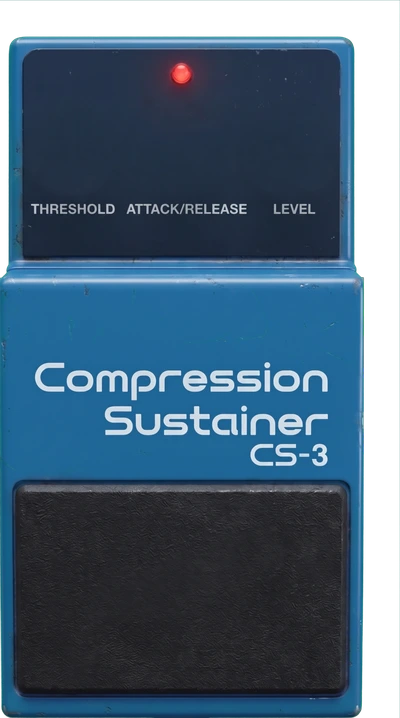
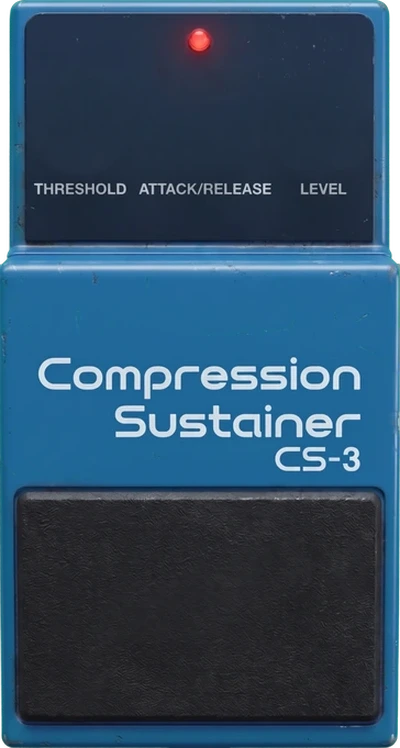
Pedals: re-centre knobs and readouts, crop CS-3/Big Muff photo margins; AC/DC preset without reverb
Claude-Session: https://claude.ai/code/session_01CWvZQgQQYmGZwEkUDMEGhG

diff --git a/style.css b/style.css
@@ -1703,9 +1703,9 @@ input[type="range"]:focus-visible { outline: 2px solid var(--brass); outline-off
   --led-x: 50.5%; --led-y: 4.7%; --led-d: 11px;
   --grip-y: 42%; --plate-y: 41.5%;
 }
-.photo-skin[data-pedal-type="ds1"] .knob-row:nth-child(1) { --kx: 145.0px; --ky: 45.3px; --kd: 47.3px; --col: 76%; }
-.photo-skin[data-pedal-type="ds1"] .knob-row:nth-child(2) { --kx: 50.0px; --ky: 45.3px; --kd: 48.3px; --col: 24%; }
-.photo-skin[data-pedal-type="ds1"] .knob-row:nth-child(3) { --kx: 101.1px; --ky: 82.7px; --kd: 32.2px; --col: 50%; }
+.photo-skin[data-pedal-type="ds1"] .knob-row:nth-child(1) { --kx: 145.0px; --ky: 45.3px; --kd: 47.3px; --col: 72.5%; }
+.photo-skin[data-pedal-type="ds1"] .knob-row:nth-child(2) { --kx: 50.0px; --ky: 45.3px; --kd: 48.3px; --col: 25.0%; }
+.photo-skin[data-pedal-type="ds1"] .knob-row:nth-child(3) { --kx: 101.1px; --ky: 82.7px; --kd: 32.2px; --col: 50.5%; }
 .photo-skin[data-pedal-type="ds1"] .knob-row > label { left: var(--col); top: 30.5%; }
 .photo-skin[data-pedal-type="ds1"] .knob-row > input[type="range"] { left: calc(var(--col) - 10%); top: calc(30.5% + 24px); width: 20%; }
 .photo-skin[data-pedal-type="ds1"] .knob-row .knob-value { color: oklch(15% 0.02 50); border-bottom-color: oklch(15% 0.02 50 / 0.5); }
@@ -1718,10 +1718,10 @@ input[type="range"]:focus-visible { outline: 2px solid var(--brass); outline-off
 .photo-skin[data-pedal-type="ts9"] .knob-row:nth-child(3) { --kx: 158.1px; --ky: 51.2px; --kd: 47.3px; --col: 78.7%; --vy: 28.6%; --sy: 33.6%; --sw: 23.5%; }
 /* delay: generated by pipe.py (img/delay.webp, 400x750) */
 .photo-skin[data-pedal-type="delay"] { --fs-x: 5.0%; --fs-y: 64.0%; --fs-w: 90.0%; --fs-h: 33.0%; --fs-r: 6px; --led-x: 50.0%; --led-y: 3.5%; --led-d: 14px; --grip-y: 28.7%; --plate-y: 28.7%; }
-.photo-skin[data-pedal-type="delay"] .knob-row:nth-child(1) { --kx: 32.6px; --ky: 41.5px; --kd: 35px; --col: 17.8%; --vy: 22.5%; --sy: 25.8%; --sw: 17.6%; }
-.photo-skin[data-pedal-type="delay"] .knob-row:nth-child(2) { --kx: 77.4px; --ky: 41.5px; --kd: 35px; --col: 39.2%; --vy: 22.5%; --sy: 25.8%; --sw: 17.6%; }
-.photo-skin[data-pedal-type="delay"] .knob-row:nth-child(3) { --kx: 122.3px; --ky: 41.5px; --kd: 35px; --col: 60.7%; --vy: 22.5%; --sy: 25.8%; --sw: 17.6%; }
-.photo-skin[data-pedal-type="delay"] .knob-row:nth-child(4) { --kx: 166.6px; --ky: 41.5px; --kd: 35px; --col: 82.2%; --vy: 22.5%; --sy: 25.8%; --sw: 17.6%; }
+.photo-skin[data-pedal-type="delay"] .knob-row:nth-child(1) { --kx: 34.5px; --ky: 41.5px; --kd: 35px; --col: 17.2%; --vy: 22.5%; --sy: 25.8%; --sw: 17.6%; }
+.photo-skin[data-pedal-type="delay"] .knob-row:nth-child(2) { --kx: 78.0px; --ky: 41.5px; --kd: 35px; --col: 39.2%; --vy: 22.5%; --sy: 25.8%; --sw: 17.6%; }
+.photo-skin[data-pedal-type="delay"] .knob-row:nth-child(3) { --kx: 121.5px; --ky: 41.5px; --kd: 35px; --col: 60.7%; --vy: 22.5%; --sy: 25.8%; --sw: 17.6%; }
+.photo-skin[data-pedal-type="delay"] .knob-row:nth-child(4) { --kx: 165.0px; --ky: 41.5px; --kd: 35px; --col: 82.2%; --vy: 22.5%; --sy: 25.8%; --sw: 17.6%; }
 /* compressor: generated by pipe.py (img/compressor.webp, 400x723) */
 .photo-skin[data-pedal-type="compressor"] { --fs-x: calc(50.0% - 26px); --fs-y: calc(87.0% - 26px); --fs-w: 52px; --fs-h: 52px; --led-x: 80.0%; --led-y: 87.0%; --led-d: 14px; }
 .photo-skin[data-pedal-type="compressor"] .knob-row:nth-child(1) { --kx: 42.6px; --ky: 52.4px; --kd: 47.2px; --col: 21.3%; --vy: 28.6%; --sy: 33.6%; --sw: 23.5%; }
@@ -1731,9 +1731,9 @@ input[type="range"]:focus-visible { outline: 2px solid var(--brass); outline-off
 .photo-skin[data-pedal-type="compressor"] .knob-row:nth-child(5) { --kx: 142.6px; --ky: 168.7px; --kd: 48.4px; --col: 71.5%; --vy: 61.4%; --sy: 66.6%; --sw: 29.9%; }
 /* bigmuff: generated by pipe.py (img/bigmuff.webp, 400x658) */
 .photo-skin[data-pedal-type="bigmuff"] { --fs-x: calc(50.0% - 26px); --fs-y: calc(87.0% - 26px); --fs-w: 52px; --fs-h: 52px; --led-x: 78.0%; --led-y: 74.0%; --led-d: 14px; }
-.photo-skin[data-pedal-type="bigmuff"] .knob-row:nth-child(1) { --kx: 36.8px; --ky: 47.6px; --kd: 40.9px; --col: 21.3%; --vy: 34.5%; --sy: 40%; --sw: 23.5%; }
-.photo-skin[data-pedal-type="bigmuff"] .knob-row:nth-child(2) { --kx: 98.8px; --ky: 47.6px; --kd: 40.8px; --col: 50.0%; --vy: 34.5%; --sy: 40%; --sw: 23.5%; }
-.photo-skin[data-pedal-type="bigmuff"] .knob-row:nth-child(3) { --kx: 162.2px; --ky: 47.6px; --kd: 40.9px; --col: 78.7%; --vy: 34.5%; --sy: 40%; --sw: 23.5%; }
+.photo-skin[data-pedal-type="bigmuff"] .knob-row:nth-child(1) { --kx: 36.8px; --ky: 47.6px; --kd: 40.9px; --col: 18.4%; --vy: 34.5%; --sy: 40%; --sw: 23.5%; }
+.photo-skin[data-pedal-type="bigmuff"] .knob-row:nth-child(2) { --kx: 98.8px; --ky: 47.6px; --kd: 40.8px; --col: 49.4%; --vy: 34.5%; --sy: 40%; --sw: 23.5%; }
+.photo-skin[data-pedal-type="bigmuff"] .knob-row:nth-child(3) { --kx: 162.2px; --ky: 47.6px; --kd: 40.9px; --col: 81.1%; --vy: 34.5%; --sy: 40%; --sw: 23.5%; }
 /* crybaby: generated by pipe.py (img/crybaby.webp, 400x1037) */
 .photo-skin[data-pedal-type="crybaby"] { --fs-x: 8.0%; --fs-y: 5.0%; --fs-w: 84.0%; --fs-h: 62.0%; --fs-r: 6px; --led-x: 82.7%; --led-y: 72.3%; --led-d: 14px; }
 .photo-skin[data-pedal-type="crybaby"] .knob-row:nth-child(1) { --col: 28.5%; --vy: 81.0%; --sy: 89.0%; --sw: 18.0%; }
@@ -1744,15 +1744,15 @@ input[type="range"]:focus-visible { outline: 2px solid var(--brass); outline-off
 .photo-skin[data-pedal-type="crybaby"] .knob-row:nth-child(2) > label { font-size: 10px; color: #fff; text-shadow: 0 1px 2px #000; }
 /* chorus: generated by pipe.py (img/chorus.webp, 400x841) */
 .photo-skin[data-pedal-type="chorus"] { --fs-x: 5.0%; --fs-y: 64.0%; --fs-w: 90.0%; --fs-h: 33.0%; --fs-r: 6px; --led-x: 50.0%; --led-y: 3.5%; --led-d: 14px; --grip-y: 28.7%; --plate-y: 28.7%; }
-.photo-skin[data-pedal-type="chorus"] .knob-row:nth-child(1) { --kx: 33.8px; --ky: 39.6px; --kd: 35px; --col: 17.8%; --vy: 22.5%; --sy: 25.8%; --sw: 17.6%; }
-.photo-skin[data-pedal-type="chorus"] .knob-row:nth-child(2) { --kx: 78.1px; --ky: 39.6px; --kd: 35px; --col: 39.2%; --vy: 22.5%; --sy: 25.8%; --sw: 17.6%; }
-.photo-skin[data-pedal-type="chorus"] .knob-row:nth-child(3) { --kx: 121.2px; --ky: 39.6px; --kd: 35px; --col: 60.7%; --vy: 22.5%; --sy: 25.8%; --sw: 17.6%; }
-.photo-skin[data-pedal-type="chorus"] .knob-row:nth-child(4) { --kx: 165.2px; --ky: 39.6px; --kd: 35px; --col: 82.2%; --vy: 22.5%; --sy: 25.8%; --sw: 17.6%; }
+.photo-skin[data-pedal-type="chorus"] .knob-row:nth-child(1) { --kx: 35.0px; --ky: 39.6px; --kd: 35px; --col: 17.8%; --vy: 22.5%; --sy: 25.8%; --sw: 17.6%; }
+.photo-skin[data-pedal-type="chorus"] .knob-row:nth-child(2) { --kx: 78.3px; --ky: 39.6px; --kd: 35px; --col: 39.2%; --vy: 22.5%; --sy: 25.8%; --sw: 17.6%; }
+.photo-skin[data-pedal-type="chorus"] .knob-row:nth-child(3) { --kx: 121.5px; --ky: 39.6px; --kd: 35px; --col: 60.7%; --vy: 22.5%; --sy: 25.8%; --sw: 17.6%; }
+.photo-skin[data-pedal-type="chorus"] .knob-row:nth-child(4) { --kx: 164.8px; --ky: 39.6px; --kd: 35px; --col: 82.2%; --vy: 22.5%; --sy: 25.8%; --sw: 17.6%; }
 /* rat2: generated by pipe.py (img/rat2.webp, 400x718) */
 .photo-skin[data-pedal-type="rat2"] { --fs-x: calc(50.0% - 26px); --fs-y: calc(87.0% - 26px); --fs-w: 52px; --fs-h: 52px; --led-x: 49.8%; --led-y: 69.4%; --led-d: 14px; }
-.photo-skin[data-pedal-type="rat2"] .knob-row:nth-child(1) { --kx: 40.8px; --ky: 49.8px; --kd: 44px; --col: 21.3%; --vy: 28.6%; --sy: 33.6%; --sw: 23.5%; }
+.photo-skin[data-pedal-type="rat2"] .knob-row:nth-child(1) { --kx: 40.8px; --ky: 49.8px; --kd: 44px; --col: 20.4%; --vy: 28.6%; --sy: 33.6%; --sw: 23.5%; }
 .photo-skin[data-pedal-type="rat2"] .knob-row:nth-child(2) { --kx: 100.0px; --ky: 49.8px; --kd: 44px; --col: 50.0%; --vy: 28.6%; --sy: 33.6%; --sw: 23.5%; }
-.photo-skin[data-pedal-type="rat2"] .knob-row:nth-child(3) { --kx: 159.3px; --ky: 49.8px; --kd: 44px; --col: 78.7%; --vy: 28.6%; --sy: 33.6%; --sw: 23.5%; }
+.photo-skin[data-pedal-type="rat2"] .knob-row:nth-child(3) { --kx: 159.3px; --ky: 49.8px; --kd: 44px; --col: 79.7%; --vy: 28.6%; --sy: 33.6%; --sw: 23.5%; }
 /* sd1: generated by pipe.py (img/sd1.webp, 400x799) */
 .photo-skin[data-pedal-type="sd1"] { --fs-x: 5.0%; --fs-y: 64.0%; --fs-w: 90.0%; --fs-h: 33.0%; --fs-r: 6px; --led-x: 50.0%; --led-y: 3.5%; --led-d: 14px; --grip-y: 35.0%; --plate-y: 35.0%; }
 .photo-skin[data-pedal-type="sd1"] .knob-row:nth-child(1) { --kx: 43.1px; --ky: 50.4px; --kd: 46.6px; --col: 21.3%; --vy: 26.7%; --sy: 31.3%; --sw: 23.5%; }
@@ -1760,17 +1760,17 @@ input[type="range"]:focus-visible { outline: 2px solid var(--brass); outline-off
 .photo-skin[data-pedal-type="sd1"] .knob-row:nth-child(3) { --kx: 157.1px; --ky: 50.4px; --kd: 45.6px; --col: 78.7%; --vy: 26.7%; --sy: 31.3%; --sw: 23.5%; }
 /* phase90: generated by pipe.py (img/phase90.webp, 400x732) */
 .photo-skin[data-pedal-type="phase90"] { --fs-x: calc(50.0% - 26px); --fs-y: calc(87.0% - 26px); --fs-w: 52px; --fs-h: 52px; --led-x: 80.0%; --led-y: 87.0%; --led-d: 14px; }
-.photo-skin[data-pedal-type="phase90"] .knob-row:nth-child(1) { --kx: 53.3px; --ky: 46.0px; --kd: 46px; --col: 28.5%; --vy: 28.8%; --sy: 33.9%; --sw: 29.9%; }
-.photo-skin[data-pedal-type="phase90"] .knob-row:nth-child(2) { --kx: 141.7px; --ky: 46.0px; --kd: 46px; --col: 71.5%; --vy: 28.8%; --sy: 33.9%; --sw: 29.9%; }
-.photo-skin[data-pedal-type="phase90"] .knob-row:nth-child(3) { --kx: 52.3px; --ky: 166.7px; --kd: 46px; --col: 28.5%; --vy: 59.8%; --sy: 64.9%; --sw: 29.9%; }
-.photo-skin[data-pedal-type="phase90"] .knob-row:nth-child(4) { --kx: 144.7px; --ky: 166.7px; --kd: 46px; --col: 71.5%; --vy: 59.8%; --sy: 64.9%; --sw: 29.9%; }
+.photo-skin[data-pedal-type="phase90"] .knob-row:nth-child(1) { --kx: 57.0px; --ky: 46.0px; --kd: 46px; --col: 28.5%; --vy: 28.8%; --sy: 33.9%; --sw: 29.9%; }
+.photo-skin[data-pedal-type="phase90"] .knob-row:nth-child(2) { --kx: 143.0px; --ky: 46.0px; --kd: 46px; --col: 71.5%; --vy: 28.8%; --sy: 33.9%; --sw: 29.9%; }
+.photo-skin[data-pedal-type="phase90"] .knob-row:nth-child(3) { --kx: 57.0px; --ky: 166.7px; --kd: 46px; --col: 28.5%; --vy: 59.8%; --sy: 64.9%; --sw: 29.9%; }
+.photo-skin[data-pedal-type="phase90"] .knob-row:nth-child(4) { --kx: 143.0px; --ky: 166.7px; --kd: 46px; --col: 71.5%; --vy: 59.8%; --sy: 64.9%; --sw: 29.9%; }
 /* vintagecomp: generated by pipe.py (img/vintagecomp.webp, 400x739) */
 .photo-skin[data-pedal-type="vintagecomp"] { --fs-x: calc(50.0% - 26px); --fs-y: calc(87.0% - 26px); --fs-w: 52px; --fs-h: 52px; --led-x: 50.0%; --led-y: 72.0%; --led-d: 14px; }
 .photo-skin[data-pedal-type="vintagecomp"] .knob-row:nth-child(1) { --kx: 100.0px; --ky: 53.2px; --kd: 67.4px; --col: 50.0%; --vy: 31.4%; --sy: 37.4%; --sw: 34.5%; }
 /* tremolo: generated by pipe.py (img/tremolo.webp, 400x726) */
 .photo-skin[data-pedal-type="tremolo"] { --fs-x: calc(50.0% - 26px); --fs-y: calc(87.0% - 26px); --fs-w: 52px; --fs-h: 52px; --led-x: 50.0%; --led-y: 70.0%; --led-d: 14px; }
 .photo-skin[data-pedal-type="tremolo"] .knob-row:nth-child(1) { --kx: 56.7px; --ky: 48.8px; --kd: 50px; --col: 28.5%; --vy: 28.8%; --sy: 33.9%; --sw: 29.9%; }
-.photo-skin[data-pedal-type="tremolo"] .knob-row:nth-child(2) { --kx: 141.5px; --ky: 48.8px; --kd: 50px; --col: 71.5%; --vy: 28.8%; --sy: 33.9%; --sw: 29.9%; }
+.photo-skin[data-pedal-type="tremolo"] .knob-row:nth-child(2) { --kx: 141.5px; --ky: 48.8px; --kd: 50px; --col: 70.8%; --vy: 28.8%; --sy: 33.9%; --sw: 29.9%; }
 /* overdrive: generated by pipe.py (img/overdrive.webp, 400x710) */
 .photo-skin[data-pedal-type="overdrive"] { --fs-x: calc(50.0% - 26px); --fs-y: calc(87.0% - 26px); --fs-w: 52px; --fs-h: 52px; --led-x: 50.0%; --led-y: 70.0%; --led-d: 14px; }
 .photo-skin[data-pedal-type="overdrive"] .knob-row:nth-child(1) { --kx: 42.2px; --ky: 48.0px; --kd: 47.0px; --col: 21.3%; --vy: 28.6%; --sy: 33.6%; --sw: 23.5%; }
@@ -1784,17 +1784,17 @@ input[type="range"]:focus-visible { outline: 2px solid var(--brass); outline-off
 .photo-skin[data-pedal-type="distortion"] .knob-row:nth-child(4) { --kx: 143.0px; --ky: 166.5px; --kd: 58px; --col: 71.5%; --vy: 61.8%; --sy: 66.9%; --sw: 29.9%; }
 /* fuzzface: generated by pipe.py (img/fuzzface.webp, 400x403) */
 .photo-skin[data-pedal-type="fuzzface"] { --fs-x: calc(50.0% - 18px); --fs-y: calc(69.0% - 18px); --fs-w: 36px; --fs-h: 36px; --led-x: 65.0%; --led-y: 68.0%; --led-d: 14px; }
-.photo-skin[data-pedal-type="fuzzface"] .knob-row:nth-child(1) { --kx: 54.2px; --ky: 47.7px; --kd: 29.3px; --col: 26.5%; --vy: 42.0%; --sy: 48.0%; --sw: 18.0%; }
+.photo-skin[data-pedal-type="fuzzface"] .knob-row:nth-child(1) { --kx: 54.2px; --ky: 47.7px; --kd: 29.3px; --col: 27.1%; --vy: 42.0%; --sy: 48.0%; --sw: 18.0%; }
 .photo-skin[data-pedal-type="fuzzface"] .knob-row:nth-child(2) { --kx: 99.4px; --ky: 47.7px; --kd: 33.2px; --col: 50.0%; --vy: 42.0%; --sy: 48.0%; --sw: 18.0%; }
-.photo-skin[data-pedal-type="fuzzface"] .knob-row:nth-child(3) { --kx: 144.9px; --ky: 47.7px; --kd: 29.3px; --col: 73.5%; --vy: 42.0%; --sy: 48.0%; --sw: 18.0%; }
+.photo-skin[data-pedal-type="fuzzface"] .knob-row:nth-child(3) { --kx: 144.9px; --ky: 47.7px; --kd: 29.3px; --col: 72.5%; --vy: 42.0%; --sy: 48.0%; --sw: 18.0%; }
 /* klon: generated by pipe.py (img/klon.webp, 400x502) */
 .photo-skin[data-pedal-type="klon"] { --fs-x: calc(50.0% - 26px); --fs-y: calc(87.0% - 26px); --fs-w: 52px; --fs-h: 52px; --led-x: 50.0%; --led-y: 67.7%; --led-d: 14px; }
-.photo-skin[data-pedal-type="klon"] .knob-row:nth-child(1) { --kx: 42.7px; --ky: 44.0px; --kd: 46px; --col: 21.3%; --vy: 37.4%; --sy: 45.1%; --sw: 23.5%; }
-.photo-skin[data-pedal-type="klon"] .knob-row:nth-child(2) { --kx: 99.7px; --ky: 44.0px; --kd: 46px; --col: 50.0%; --vy: 37.4%; --sy: 45.1%; --sw: 23.5%; }
-.photo-skin[data-pedal-type="klon"] .knob-row:nth-child(3) { --kx: 160.1px; --ky: 44.0px; --kd: 46px; --col: 78.7%; --vy: 37.4%; --sy: 45.1%; --sw: 23.5%; }
+.photo-skin[data-pedal-type="klon"] .knob-row:nth-child(1) { --kx: 41.5px; --ky: 44.0px; --kd: 46px; --col: 20.8%; --vy: 37.4%; --sy: 45.1%; --sw: 23.5%; }
+.photo-skin[data-pedal-type="klon"] .knob-row:nth-child(2) { --kx: 100.0px; --ky: 44.0px; --kd: 46px; --col: 50.0%; --vy: 37.4%; --sy: 45.1%; --sw: 23.5%; }
+.photo-skin[data-pedal-type="klon"] .knob-row:nth-child(3) { --kx: 158.5px; --ky: 44.0px; --kd: 46px; --col: 79.2%; --vy: 37.4%; --sy: 45.1%; --sw: 23.5%; }
 /* bd2: generated by pipe.py (img/bd2.webp, 400x726) */
 .photo-skin[data-pedal-type="bd2"] { --fs-x: 5.0%; --fs-y: 64.0%; --fs-w: 90.0%; --fs-h: 33.0%; --fs-r: 6px; --led-x: 50.0%; --led-y: 3.5%; --led-d: 14px; --grip-y: 35.0%; --plate-y: 35.0%; }
-.photo-skin[data-pedal-type="bd2"] .knob-row:nth-child(1) { --kx: 39.8px; --ky: 47.1px; --kd: 44px; --col: 21.3%; --vy: 26.7%; --sy: 31.3%; --sw: 23.5%; }
+.photo-skin[data-pedal-type="bd2"] .knob-row:nth-child(1) { --kx: 41.5px; --ky: 47.1px; --kd: 44px; --col: 20.8%; --vy: 26.7%; --sy: 31.3%; --sw: 23.5%; }
 .photo-skin[data-pedal-type="bd2"] .knob-row:nth-child(2) { --kx: 99.4px; --ky: 47.1px; --kd: 44px; --col: 50.0%; --vy: 26.7%; --sy: 31.3%; --sw: 23.5%; }
 .photo-skin[data-pedal-type="bd2"] .knob-row:nth-child(3) { --kx: 157.3px; --ky: 47.1px; --kd: 44px; --col: 78.7%; --vy: 26.7%; --sy: 31.3%; --sw: 23.5%; }
 /* ce2: generated by pipe.py (img/ce2.webp, 400x775) */
@@ -1805,9 +1805,9 @@ input[type="range"]:focus-visible { outline: 2px solid var(--brass); outline-off
 .photo-skin[data-pedal-type="ce2"] .knob-row:nth-child(4) { --kx: 165.1px; --ky: 41.7px; --kd: 35px; --col: 82.2%; --vy: 22.5%; --sy: 25.8%; --sw: 17.6%; }
 /* tr2: generated by pipe.py (img/tr2.webp, 400x744) */
 .photo-skin[data-pedal-type="tr2"] { --fs-x: 5.0%; --fs-y: 64.0%; --fs-w: 90.0%; --fs-h: 33.0%; --fs-r: 6px; --led-x: 50.0%; --led-y: 5.0%; --led-d: 14px; --grip-y: 35.0%; --plate-y: 35.0%; }
-.photo-skin[data-pedal-type="tr2"] .knob-row:nth-child(1) { --kx: 36.0px; --ky: 49.6px; --kd: 44px; --col: 18.0%; --vy: 30.0%; --sy: 34.0%; --sw: 26.0%; }
-.photo-skin[data-pedal-type="tr2"] .knob-row:nth-child(2) { --kx: 100.3px; --ky: 49.6px; --kd: 44px; --col: 50.0%; --vy: 30.0%; --sy: 34.0%; --sw: 26.0%; }
-.photo-skin[data-pedal-type="tr2"] .knob-row:nth-child(3) { --kx: 163.5px; --ky: 49.6px; --kd: 44px; --col: 82.0%; --vy: 30.0%; --sy: 34.0%; --sw: 26.0%; }
+.photo-skin[data-pedal-type="tr2"] .knob-row:nth-child(1) { --kx: 40.5px; --ky: 49.6px; --kd: 44px; --col: 20.2%; --vy: 30.0%; --sy: 34.0%; --sw: 26.0%; }
+.photo-skin[data-pedal-type="tr2"] .knob-row:nth-child(2) { --kx: 100.0px; --ky: 49.6px; --kd: 44px; --col: 50.0%; --vy: 30.0%; --sy: 34.0%; --sw: 26.0%; }
+.photo-skin[data-pedal-type="tr2"] .knob-row:nth-child(3) { --kx: 159.5px; --ky: 49.6px; --kd: 44px; --col: 79.8%; --vy: 30.0%; --sy: 34.0%; --sw: 26.0%; }
 /* cs3: generated by pipe.py (img/cs3.webp, 400x767) */
 .photo-skin[data-pedal-type="cs3"] { --fs-x: 4.0%; --fs-y: 65.5%; --fs-w: 92.0%; --fs-h: 30.5%; --fs-r: 6px; --led-x: 50.0%; --led-y: 4.2%; --led-d: 14px; --grip-y: 34.0%; --plate-y: 34.0%; }
 .photo-skin[data-pedal-type="cs3"] .knob-row:nth-child(1) { --kx: 35.1px; --ky: 55.4px; --kd: 33.6px; --col: 18.0%; --vy: 30.0%; --sy: 33.6%; --sw: 26.0%; }
@@ -1815,24 +1815,24 @@ input[type="range"]:focus-visible { outline: 2px solid var(--brass); outline-off
 .photo-skin[data-pedal-type="cs3"] .knob-row:nth-child(3) { --kx: 164.3px; --ky: 55.4px; --kd: 33.6px; --col: 82.0%; --vy: 30.0%; --sy: 33.6%; --sw: 26.0%; }
 /* analogdelay: generated by pipe.py (img/analogdelay.webp, 400x683) */
 .photo-skin[data-pedal-type="analogdelay"] { --fs-x: calc(50.0% - 26px); --fs-y: calc(87.0% - 26px); --fs-w: 52px; --fs-h: 52px; --led-x: 50.0%; --led-y: 70.0%; --led-d: 14px; }
-.photo-skin[data-pedal-type="analogdelay"] .knob-row:nth-child(1) { --kx: 42.7px; --ky: 47.6px; --kd: 42px; --col: 21.3%; --vy: 28.6%; --sy: 33.6%; --sw: 23.5%; }
-.photo-skin[data-pedal-type="analogdelay"] .knob-row:nth-child(2) { --kx: 98.9px; --ky: 47.6px; --kd: 42px; --col: 50.0%; --vy: 28.6%; --sy: 33.6%; --sw: 23.5%; }
-.photo-skin[data-pedal-type="analogdelay"] .knob-row:nth-child(3) { --kx: 157.5px; --ky: 47.6px; --kd: 42px; --col: 78.7%; --vy: 28.6%; --sy: 33.6%; --sw: 23.5%; }
+.photo-skin[data-pedal-type="analogdelay"] .knob-row:nth-child(1) { --kx: 37.5px; --ky: 47.6px; --kd: 42px; --col: 18.8%; --vy: 28.6%; --sy: 33.6%; --sw: 23.5%; }
+.photo-skin[data-pedal-type="analogdelay"] .knob-row:nth-child(2) { --kx: 100.0px; --ky: 47.6px; --kd: 42px; --col: 50.0%; --vy: 28.6%; --sy: 33.6%; --sw: 23.5%; }
+.photo-skin[data-pedal-type="analogdelay"] .knob-row:nth-child(3) { --kx: 162.5px; --ky: 47.6px; --kd: 42px; --col: 81.2%; --vy: 28.6%; --sy: 33.6%; --sw: 23.5%; }
 /* tapedelay: generated by pipe.py (img/tapedelay.webp, 400x726) */
 .photo-skin[data-pedal-type="tapedelay"] { --fs-x: calc(50.0% - 26px); --fs-y: calc(87.0% - 26px); --fs-w: 52px; --fs-h: 52px; --led-x: 80.0%; --led-y: 87.0%; --led-d: 14px; }
 .photo-skin[data-pedal-type="tapedelay"] .knob-row:nth-child(1) { --kx: 57.6px; --ky: 47.5px; --kd: 44px; --col: 28.5%; --vy: 28.8%; --sy: 33.9%; --sw: 29.9%; }
 .photo-skin[data-pedal-type="tapedelay"] .knob-row:nth-child(2) { --kx: 142.5px; --ky: 47.5px; --kd: 44px; --col: 71.5%; --vy: 28.8%; --sy: 33.9%; --sw: 29.9%; }
-.photo-skin[data-pedal-type="tapedelay"] .knob-row:nth-child(3) { --kx: 58.5px; --ky: 168.9px; --kd: 44px; --col: 28.5%; --vy: 59.3%; --sy: 64.4%; --sw: 29.9%; }
+.photo-skin[data-pedal-type="tapedelay"] .knob-row:nth-child(3) { --kx: 58.5px; --ky: 168.9px; --kd: 44px; --col: 29.2%; --vy: 59.3%; --sy: 64.4%; --sw: 29.9%; }
 .photo-skin[data-pedal-type="tapedelay"] .knob-row:nth-child(4) { --kx: 142.8px; --ky: 168.9px; --kd: 44px; --col: 71.5%; --vy: 59.3%; --sy: 64.4%; --sw: 29.9%; }
 /* fuzz: generated by pipe.py (img/fuzz.webp, 400x711) */
 .photo-skin[data-pedal-type="fuzz"] { --fs-x: calc(50.0% - 26px); --fs-y: calc(87.0% - 26px); --fs-w: 52px; --fs-h: 52px; --led-x: 50.0%; --led-y: 55.8%; --led-d: 14px; }
-.photo-skin[data-pedal-type="fuzz"] .knob-row:nth-child(1) { --kx: 41.0px; --ky: 56.8px; --kd: 48.3px; --col: 21.3%; --vy: 28.6%; --sy: 33.6%; --sw: 23.5%; }
+.photo-skin[data-pedal-type="fuzz"] .knob-row:nth-child(1) { --kx: 41.0px; --ky: 56.8px; --kd: 48.3px; --col: 20.5%; --vy: 28.6%; --sy: 33.6%; --sw: 23.5%; }
 .photo-skin[data-pedal-type="fuzz"] .knob-row:nth-child(2) { --kx: 99.9px; --ky: 56.8px; --kd: 48.3px; --col: 50.0%; --vy: 28.6%; --sy: 33.6%; --sw: 23.5%; }
-.photo-skin[data-pedal-type="fuzz"] .knob-row:nth-child(3) { --kx: 158.8px; --ky: 56.8px; --kd: 48.3px; --col: 78.7%; --vy: 28.6%; --sy: 33.6%; --sw: 23.5%; }
+.photo-skin[data-pedal-type="fuzz"] .knob-row:nth-child(3) { --kx: 158.8px; --ky: 56.8px; --kd: 48.3px; --col: 79.4%; --vy: 28.6%; --sy: 33.6%; --sw: 23.5%; }
 /* boost: generated by pipe.py (img/boost.webp, 400x737) */
 .photo-skin[data-pedal-type="boost"] { --fs-x: calc(50.0% - 26px); --fs-y: calc(87.0% - 26px); --fs-w: 52px; --fs-h: 52px; --led-x: 50.0%; --led-y: 55.0%; --led-d: 14px; }
-.photo-skin[data-pedal-type="boost"] .knob-row:nth-child(1) { --kx: 59.5px; --ky: 51.9px; --kd: 48.2px; --col: 30%; --vy: 31.8%; --sy: 36.5%; --sw: 29.9%; }
-.photo-skin[data-pedal-type="boost"] .knob-row:nth-child(2) { --kx: 139.8px; --ky: 51.9px; --kd: 48.3px; --col: 70%; --vy: 31.8%; --sy: 36.5%; --sw: 29.9%; }
+.photo-skin[data-pedal-type="boost"] .knob-row:nth-child(1) { --kx: 59.5px; --ky: 51.9px; --kd: 48.2px; --col: 30.0%; --vy: 31.8%; --sy: 36.5%; --sw: 29.9%; }
+.photo-skin[data-pedal-type="boost"] .knob-row:nth-child(2) { --kx: 139.8px; --ky: 51.9px; --kd: 48.3px; --col: 70.0%; --vy: 31.8%; --sy: 36.5%; --sw: 29.9%; }
 
 /* wah: generated by pipe.py (img/wah.webp, 400x1082) */
 .photo-skin[data-pedal-type="wah"] { --fs-x: 5.0%; --fs-y: 1.5%; --fs-w: 90.0%; --fs-h: 62.0%; --fs-r: 6px; --led-x: 80.0%; --led-y: 71.6%; --led-d: 14px; }
@@ -1847,10 +1847,10 @@ input[type="range"]:focus-visible { outline: 2px solid var(--brass); outline-off
 .photo-skin[data-pedal-type="wah"] .knob-row:nth-child(3) > label { display: flex; flex-direction: column; align-items: center; gap: 2px; font-size: 10px; color: #fff; text-shadow: 0 1px 2px #000; }
 /* phaser: generated by pipe.py (img/phaser.webp, 400x738) */
 .photo-skin[data-pedal-type="phaser"] { --fs-x: calc(50.0% - 26px); --fs-y: calc(88.0% - 26px); --fs-w: 52px; --fs-h: 52px; --led-x: 82.0%; --led-y: 79.5%; --led-d: 14px; }
-.photo-skin[data-pedal-type="phaser"] .knob-row:nth-child(1) { --kx: 54.5px; --ky: 52px; --kd: 42px; --col: 26.5%; --vy: 27.6%; --sy: 30.9%; --sw: 32%; }
-.photo-skin[data-pedal-type="phaser"] .knob-row:nth-child(2) { --kx: 146.9px; --ky: 52px; --kd: 42px; --col: 73.5%; --vy: 27.6%; --sy: 30.9%; --sw: 32%; }
-.photo-skin[data-pedal-type="phaser"] .knob-row:nth-child(3) { --kx: 53.6px; --ky: 157px; --kd: 42px; --col: 26.5%; --vy: 54.3%; --sy: 57.6%; --sw: 32%; }
-.photo-skin[data-pedal-type="phaser"] .knob-row:nth-child(4) { --kx: 147.4px; --ky: 157px; --kd: 42px; --col: 73.5%; --vy: 54.3%; --sy: 57.6%; --sw: 32%; }
+.photo-skin[data-pedal-type="phaser"] .knob-row:nth-child(1) { --kx: 54.0px; --ky: 52px; --kd: 42px; --col: 26.5%; --vy: 27.6%; --sy: 30.9%; --sw: 32%; }
+.photo-skin[data-pedal-type="phaser"] .knob-row:nth-child(2) { --kx: 147.0px; --ky: 52px; --kd: 42px; --col: 73.5%; --vy: 27.6%; --sy: 30.9%; --sw: 32%; }
+.photo-skin[data-pedal-type="phaser"] .knob-row:nth-child(3) { --kx: 54.0px; --ky: 157px; --kd: 42px; --col: 26.5%; --vy: 54.3%; --sy: 57.6%; --sw: 32%; }
+.photo-skin[data-pedal-type="phaser"] .knob-row:nth-child(4) { --kx: 147.0px; --ky: 157px; --kd: 42px; --col: 73.5%; --vy: 54.3%; --sy: 57.6%; --sw: 32%; }
 /* flanger: generated by pipe.py (img/flanger.webp, 400x712) */
 .photo-skin[data-pedal-type="flanger"] { --fs-x: calc(50.0% - 26px); --fs-y: calc(88.5% - 26px); --fs-w: 52px; --fs-h: 52px; --led-x: 50.0%; --led-y: 73.6%; --led-d: 14px; }
 .photo-skin[data-pedal-type="flanger"] .knob-row:nth-child(1) { --kx: 58.4px; --ky: 48.6px; --kd: 46px; --col: 28.8%; --vy: 28.5%; --sy: 33.0%; --sw: 32%; }
@@ -1940,9 +1940,9 @@ input[type="range"]:focus-visible { outline: 2px solid var(--brass); outline-off
 .photo-skin[data-pedal-type="exciter"] .knob-row:nth-child(2) { --kx: 143.0px; --ky: 49.5px; --kd: 50px; --col: 71.5%; --vy: 28.8%; --sy: 33.9%; --sw: 29.9%; }
 /* twelvestring: generated by pipe.py (img/twelvestring.webp, 400x658) */
 .photo-skin[data-pedal-type="twelvestring"] { --fs-x: calc(50.0% - 26px); --fs-y: calc(87.0% - 26px); --fs-w: 52px; --fs-h: 52px; --led-x: 50.0%; --led-y: 54.7%; --led-d: 14px; }
-.photo-skin[data-pedal-type="twelvestring"] .knob-row:nth-child(1) { --kx: 42.7px; --ky: 43.4px; --kd: 46px; --col: 21.3%; --vy: 34.5%; --sy: 39.5%; --sw: 23.5%; }
+.photo-skin[data-pedal-type="twelvestring"] .knob-row:nth-child(1) { --kx: 38.5px; --ky: 43.4px; --kd: 46px; --col: 19.2%; --vy: 34.5%; --sy: 39.5%; --sw: 23.5%; }
 .photo-skin[data-pedal-type="twelvestring"] .knob-row:nth-child(2) { --kx: 100.0px; --ky: 43.4px; --kd: 46px; --col: 50.0%; --vy: 34.5%; --sy: 39.5%; --sw: 23.5%; }
-.photo-skin[data-pedal-type="twelvestring"] .knob-row:nth-child(3) { --kx: 157.3px; --ky: 43.4px; --kd: 46px; --col: 78.7%; --vy: 34.5%; --sy: 39.5%; --sw: 23.5%; }
+.photo-skin[data-pedal-type="twelvestring"] .knob-row:nth-child(3) { --kx: 161.5px; --ky: 43.4px; --kd: 46px; --col: 80.8%; --vy: 34.5%; --sy: 39.5%; --sw: 23.5%; }
 /* END GENERATED SKINS */
 
 /* Quick Stomp scene slots */

diff --git a/js/pedal-registry.js b/js/pedal-registry.js
@@ -131,7 +131,7 @@ export const PEDAL_TYPES = [
   },
   {
     id: 'cs3', label: 'CS-3', category: 'dynamics', color: 'oklch(62% 0.14 230)', brand: 'boss', brandLabel: 'BOSS',
-    skin: { src: 'img/cs3-body.webp', aspect: '400 / 718', knob: 'img/cs3-knob.webp' },
+    skin: { src: 'img/cs3-body.webp', aspect: '400 / 748', knob: 'img/cs3-knob.webp' },
     blurb: 'A hard-knee compressor whose Attack and Release move in opposite directions on one knob — the Boss CS-3.',
     about: 'Modeled on the Boss Compression Sustainer CS-3: a fixed hard knee and high ratio, plus its documented Attack/Release coupling — the two aren\'t independent, turning one lengthens it while shortening the other, unlike the generic Compressor\'s separate knobs.',
     createNodes(ctx) {
@@ -410,7 +410,7 @@ export const PEDAL_TYPES = [
   },
   {
     id: 'bigmuff', label: 'Big Muff Pi', category: 'drive', color: 'oklch(80% 0.01 260)', brand: 'ehx', brandLabel: 'electro-harmonix',
-    skin: { src: 'img/bigmuff-body.webp', aspect: '400 / 634', knob: 'img/bigmuff-knob.webp' },
+    skin: { src: 'img/bigmuff-body.webp', aspect: '400 / 658', knob: 'img/bigmuff-knob.webp' },
     blurb: 'Two clipping stages (soft, then hard) feeding a scooped-mid tone crossfade — the Electro-Harmonix Big Muff Pi.',
     about: 'Modeled on the Electro-Harmonix Big Muff Pi: 2 cascaded clipping stages (the first "softly clips," the second "repeats the operation... creating the hard clip," confirmed via a direct circuit teardown), feeding a real passive-style Tone control that crossfades between a lowpass and a highpass branch rather than one simple filter — which is what produces its ~13.5dB scooped-mid dip at center.',
     createNodes(ctx) {

diff --git a/js/demo-presets.js b/js/demo-presets.js
@@ -86,13 +86,12 @@ export const DEMO_PRESETS = [
   {
     name: "AC/DC: Thunderstruck",
     artist: true,
-    blurb: 'Angus rig from the video: a nearly clean Klon-style boost into a mid-forward Plexi, a light plate reverb',
+    blurb: 'Angus rig from the video: a nearly clean Klon-style boost into a mid-forward Plexi',
     state: {
       inputGainPct: 100, masterVolumePct: 100,
       noiseGate: { enabled: false, threshold: -48, holdMs: 60, release: 150 },
       chain: [
         { kind: 'pedal', typeId: 'klon', enabled: true, params: { gain: 8, treble: -3.4, level: 152 } },
-        { kind: 'pedal', typeId: 'reverb', enabled: true, params: { type: 'plate', mix: 12 } },
         { kind: 'amp', typeId: 'plexi', enabled: true, params: { gain: 70, bass: 35, mid: 76, treble: 50, presence: 63, level: 78 } },
       ],
     },

diff --git a/test-layout.html b/test-layout.html
@@ -15,9 +15,9 @@
     const w = frame.contentWindow;
     const ampId = location.search.includes('acoustic') ? 'acoustic' : 'clean';
     await w.eval(`(async () => {
-      const ui = await import('/js/ui.js?v=166');
-      const pr = await import('/js/pedal-registry.js?v=160');
-      const ar = await import('/js/amp-registry.js?v=164');
+      const ui = await import('/js/ui.js?v=167');
+      const pr = await import('/js/pedal-registry.js?v=161');
+      const ar = await import('/js/amp-registry.js?v=165');
       const mk = (id, getter, kind) => {
         const typeDef = getter(id);
         const params = {}; typeDef.params.forEach((p) => { params[p.key] = p.default; });

diff --git a/js/main.js b/js/main.js
@@ -1,5 +1,5 @@
-import { AudioEngine } from './audio-engine.js?v=176';
-import { renderChain, renderAmp, showAddMenu, showDemoMenu, showSavePresetPopover, showPresetMenu, showInfoPopover, drawScope, drawWaveform, drawStaticWave } from './ui.js?v=166';
+import { AudioEngine } from './audio-engine.js?v=177';
+import { renderChain, renderAmp, showAddMenu, showDemoMenu, showSavePresetPopover, showPresetMenu, showInfoPopover, drawScope, drawWaveform, drawStaticWave } from './ui.js?v=167';
 import { renderPreviewWaveform } from './wave-preview.js';
 import { DEMO_PRESETS } from './demo-presets.js?v=2';
 import { Tuner, GUITAR_STRINGS, centsFromTarget } from './tuner.js?v=3';

diff --git a/index.html b/index.html
@@ -4,7 +4,7 @@
 <meta charset="utf-8">
 <title>Guitar FX Pedalboard</title>
 <meta name="viewport" content="width=device-width, initial-scale=1">
-<link rel="stylesheet" href="style.css?v=198">
+<link rel="stylesheet" href="style.css?v=199">
 <script>
   (function () {
     var root = document.documentElement;
@@ -550,6 +550,6 @@
   </div>
 </template>
 
-<script type="module" src="js/main.js?v=202"></script>
+<script type="module" src="js/main.js?v=203"></script>
 </body>
 </html>

diff --git a/js/audio-engine.js b/js/audio-engine.js
@@ -1,5 +1,5 @@
-import { getPedalType } from './pedal-registry.js?v=160';
-import { getAmpType } from './amp-registry.js?v=164';
+import { getPedalType } from './pedal-registry.js?v=161';
+import { getAmpType } from './amp-registry.js?v=165';
 
 // Keep in sync with WORKLET_MODULES in wave-preview.js (same URLs, so both share one HTTP cache entry).
 const WORKLET_URLS = [

diff --git a/js/ui.js b/js/ui.js
@@ -1,5 +1,5 @@
-import { PEDAL_TYPES, CATEGORIES } from './pedal-registry.js?v=160';
-import { AMP_TYPES } from './amp-registry.js?v=164';
+import { PEDAL_TYPES, CATEGORIES } from './pedal-registry.js?v=161';
+import { AMP_TYPES } from './amp-registry.js?v=165';
 
 function stepFor(param) {
   if (param.step !== undefined) return param.step;

diff --git a/js/amp-registry.js b/js/amp-registry.js
@@ -1,5 +1,5 @@
 import { generateCabIR, generateAcousticBodyIR } from './ir-synth.js?v=4';
-import { driveCurve } from './pedal-registry.js?v=160';
+import { driveCurve } from './pedal-registry.js?v=161';
 
 function makeBand(ctx, band) {
   const f = ctx.createBiquadFilter();
